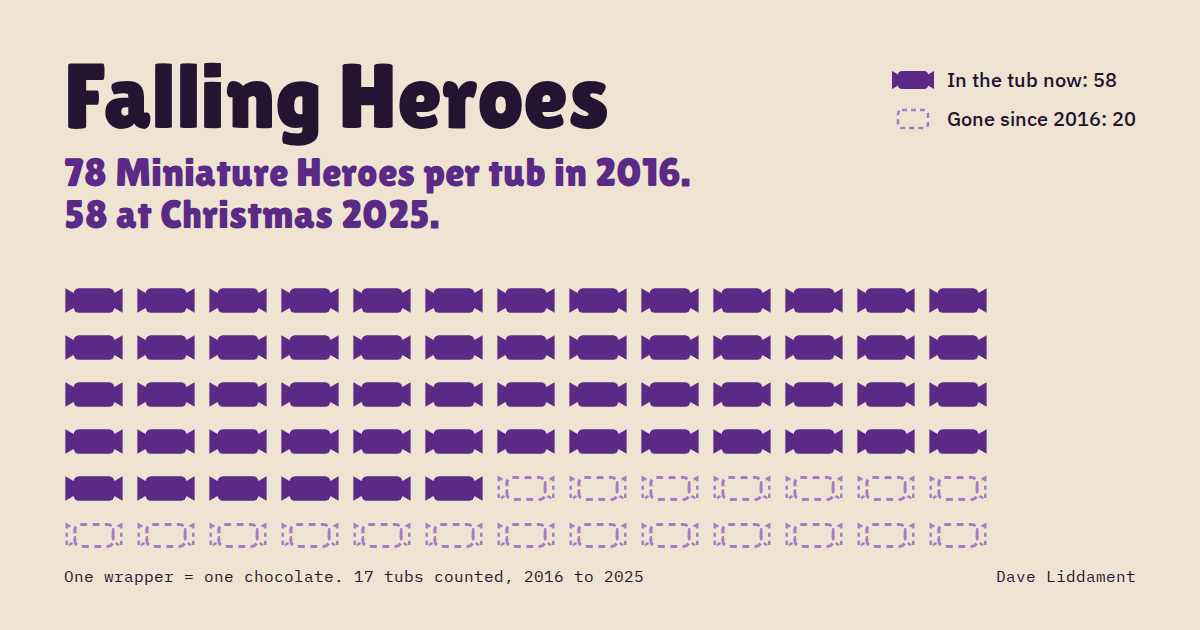
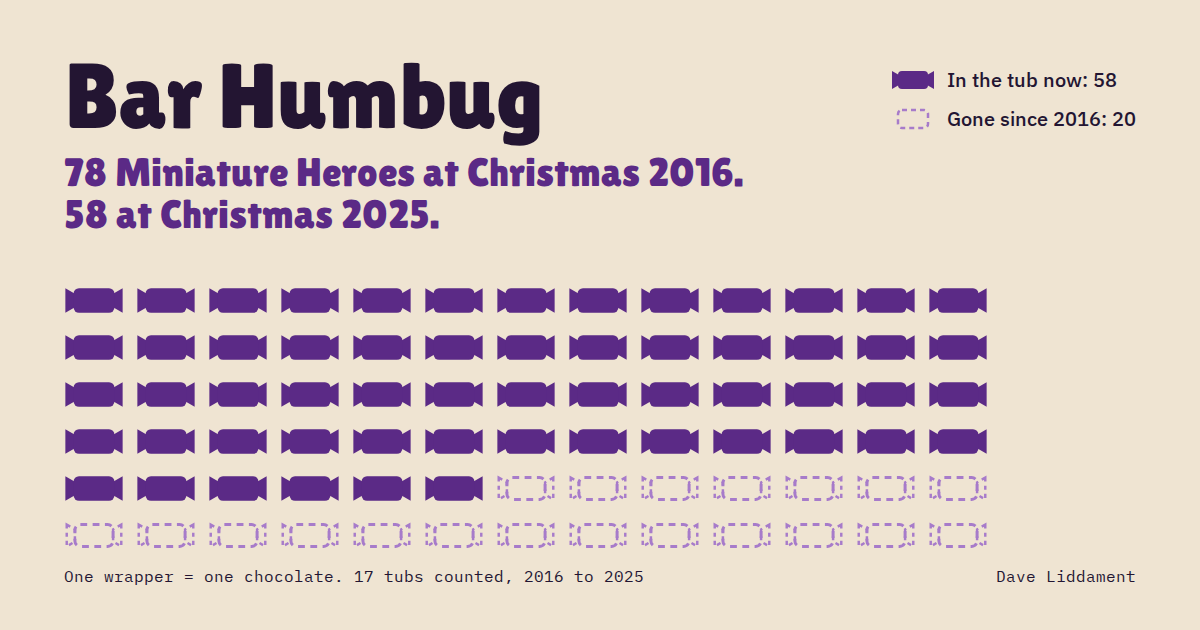
Build of DaveLiddament/heroes@0b5047c18ad5e4a0414dde75ce658df7815f4dc2

Changed region(s): [[0.0617, 0.0905, 0.6167, 0.3016]]

diff --git a/index.html b/index.html
@@ -16,10 +16,10 @@
 <meta property="og:image" content="https://heroes.daveliddament.co.uk/social-card.png">
 <meta property="og:image:width" content="1200">
 <meta property="og:image:height" content="630">
-<meta property="og:image:alt" content="Falling Heroes: a grid of chocolate wrappers, most filled in, the rest empty outlines for the heroes that have gone since 2016.">
+<meta property="og:image:alt" content="Bar Humbug: a grid of chocolate wrappers, most filled in, the rest empty outlines for the Miniature Heroes that have gone since 2016.">
 <meta name="twitter:card" content="summary_large_image">
 <meta name="twitter:image" content="https://heroes.daveliddament.co.uk/social-card.png">
-<meta name="twitter:image:alt" content="Falling Heroes: a grid of chocolate wrappers, most filled in, the rest empty outlines for the heroes that have gone since 2016.">
+<meta name="twitter:image:alt" content="Bar Humbug: a grid of chocolate wrappers, most filled in, the rest empty outlines for the Miniature Heroes that have gone since 2016.">
 <meta name="twitter:title" content="Where have all the heroes gone?">
 <meta name="twitter:description" content="The contents of Cadbury Miniature Heroes over the years">
 <link rel="icon" href="favicon.ico" sizes="32x32">
@@ -61,7 +61,7 @@
 
 <section id="count">
   <div class="stack">
-    <h2>Falling heroes</h2>
+    <h2>Lowering the bar</h2>
     <div class="totals" role="img" aria-label="Chocolates per tub, 2016 to 2026: 78 in the first tub, 51 in the latest." style="--max: 78">
       <div class="bars">
                 <div class="col" title="Xmas 2016: 78">
@@ -173,7 +173,7 @@
 
 <section id="typical">
   <div class="stack">
-    <h2>The average tub</h2>
+    <h2>The usual suspects</h2>
     <div class="table">
       <div class="lineup-head"><span></span><span></span><span>avg</span><span>range</span></div>
       <div class="lineup">
@@ -247,7 +247,7 @@
 
 <section id="tubs">
   <div class="stack">
-    <h2>Every tub I've counted</h2>
+    <h2>Stacked against us</h2>
     <div class="legend">
             <span class="t-twirl"><i></i>Twirl</span>
             <span class="t-dairy-milk"><i></i>Dairy Milk</span>
@@ -864,7 +864,7 @@
 <section id="odd">
   <div class="stack">
     <h2>The odd ones</h2>
-    <div class="odd-entries">
+        <div class="odd-entries">
             <div class="odd-entry">
         <span class="when">28 Oct 2024</span>
         <span>Sixteen Crunchies. Not a single Eclair. One Fudge and one Creme Egg. I&#039;ve no idea what happened at the factory that day, but it&#039;s still my favourite photo.</span>
@@ -885,11 +885,11 @@
         <span class="when">Xmas 2016</span>
         <span>I forgot to write down the weight. If you&#039;ve still got a 2016 tub lid, I&#039;d love to know.</span>
       </div>
-                  <div class="odd-entry odd-fact">
+            <div class="odd-entry">
         <span class="when">Since 2021</span>
         <span>Dairy Milk has never dropped below five or gone above eight. The most reliable hero.</span>
       </div>
-    </div>
+          </div>
   </div>
 </section>
 

diff --git a/styles.css b/styles.css
@@ -153,7 +153,7 @@ figcaption { font-family: var(--mono); font-size: 12px; }
 .swap-input:checked + .swap-figure + .swap-label { background: color-mix(in srgb, var(--lilac) 28%, transparent); }
 .swap-input:focus-visible + .swap-figure + .swap-label { outline: 2px solid var(--ink); outline-offset: -2px; }
 /*
-  A #photo-N link (from "Every tub I've counted") shows that tub's photo, until
+  A #photo-N link (from the stacked chart) shows that tub's photo, until
   the reader picks a row of their own: it only outranks the untouched default.
 */
 .swap:has(.swap-input.is-default:checked):has(.swap-label:target) .swap-input:checked + .swap-figure { display: none; }
